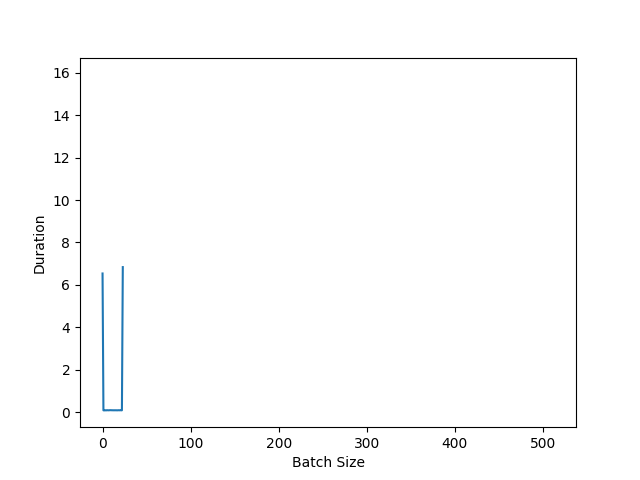
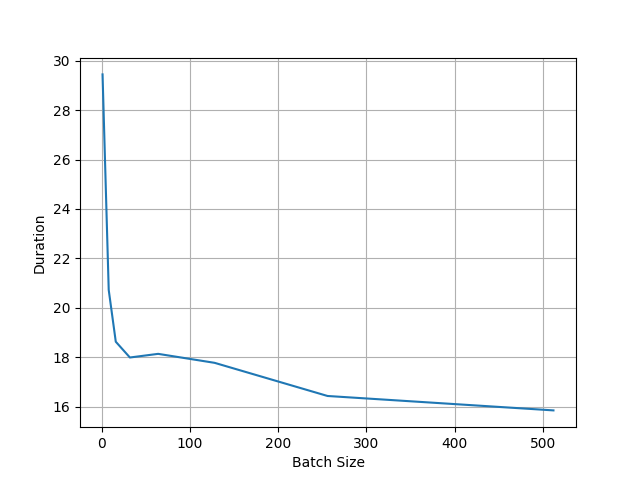
Add new plot and fixes
Fixed bugs in pl_pt and added new function in tc_jax.
Added new plots for evaluation the tc_jax cpu version

diff --git a/benchmark/tc_jax.py b/benchmark/tc_jax.py
@@ -97,7 +97,27 @@ def training_loop_timed(dataset, params, optimizer, opt_state, loss, n_qubits: i
             (jnp.mean(opt_times), jnp.std(opt_times)), 
             (jnp.mean(update_times), jnp.std(update_times))
            )
-    
+
+
+def circuit_loop(dataset, params, n_layers, loss):
+    """ Start circuit training loop
+
+    Same as training_loop_timed, but without any optimization and loss function.
+
+    :param dataset: Dataset to work with
+    :param params: NN and Circuit params
+    :param n_layers: Number of layers
+    :param loss: Loss function
+    :return: None
+    """
+
+    for i, (xs, ys) in enumerate(dataset):
+        xs = jnp.array(xs)
+        ys = jnp.array(ys)
+
+        v, grads = loss(xs, ys, params, n_layers)
+
+
 def training_loop(dataset, params, nlayers, optimizer, opt_state, loss):
     """ Start training loop
 
@@ -162,6 +182,7 @@ def tc_jax_benchmark(batch_size: int = 32, n_qubits: int = 9, n_layers: int = 3,
     if profile_path:
         with jax.profiler.trace(profile_path, create_perfetto_link=True):
             training_loop(mnist_data, params, n_layers, optimizer, qml_hybrid_loss_vag)
+
     else:
         loss, opt, update = training_loop_timed(dataset = mnist_data,
                                                 params = params,
@@ -170,6 +191,13 @@ def tc_jax_benchmark(batch_size: int = 32, n_qubits: int = 9, n_layers: int = 3,
                                                 loss = qml_hybrid_loss_vag,
                                                 n_layers=n_layers,
                                                 n_qubits=n_qubits)
+
+    # Run Circuit loop only
+    circuit_loop(dataset=mnist_data,
+                 params=params,
+                 loss=qml_hybrid_loss_vag,
+                 n_layers=n_layers
+                 )
 
     t1 = time.time()
     

diff --git a/benchmark/pl_pt.py b/benchmark/pl_pt.py
@@ -55,22 +55,23 @@ def pl_pt_benchmark(batch_size: int = 32, n_qubits: int = 9, n_layers: int = 3):
         for i, (xs, ys) in enumerate(mnist_data):
             # Iterate over batch
             yps = []
-            for i in range(batch_size):
-                yp = qmodel(xs[i])
+            for j in range(batch_size):
+                yp = qmodel(xs[j])
                 yps.append(yp)
-                
-                if i%9 == 0:
-                    print(f"Executed {i}/{batch_size}")
+
 
             yps = torch.stack(yps)
 
             # Calculate loss over batch
-            loss = loss(
+            loss_ret = loss(
                 torch.reshape(yps, [batch_size, 1]), torch.reshape(ys, [batch_size, 1])
             )
             
-            loss.backward()
+            loss_ret.backward()
             optimizer.step()
+
+            if i%5 == 0:
+                print(f"Executed {i}/{len(mnist_data)}")
         
             print(loss)
 

diff --git a/benchmark/evaluation.py b/benchmark/evaluation.py
@@ -1,0 +1,21 @@
+import matplotlib.pyplot as plt
+import csv
+
+batch_size = []
+time = []
+
+with open('../profile/tc_execution_cpu.txt', 'r') as datafile:
+    plotting = csv.reader(datafile, delimiter=',')
+
+    for row in plotting:
+        batch_size.append(row[0])
+        time.append(float(row[1]))
+
+plt.plot(batch_size, time, linewidth=2)
+plt.title('Execution Time of Quantum Circuit for Different Batch Sizes on CPU')
+plt.xlabel('Batch Size')
+plt.ylabel('Execution Time [s]')
+plt.grid()
+ax = plt.gca()
+ax.set_ylim([0, max(time)+1])
+plt.show()
